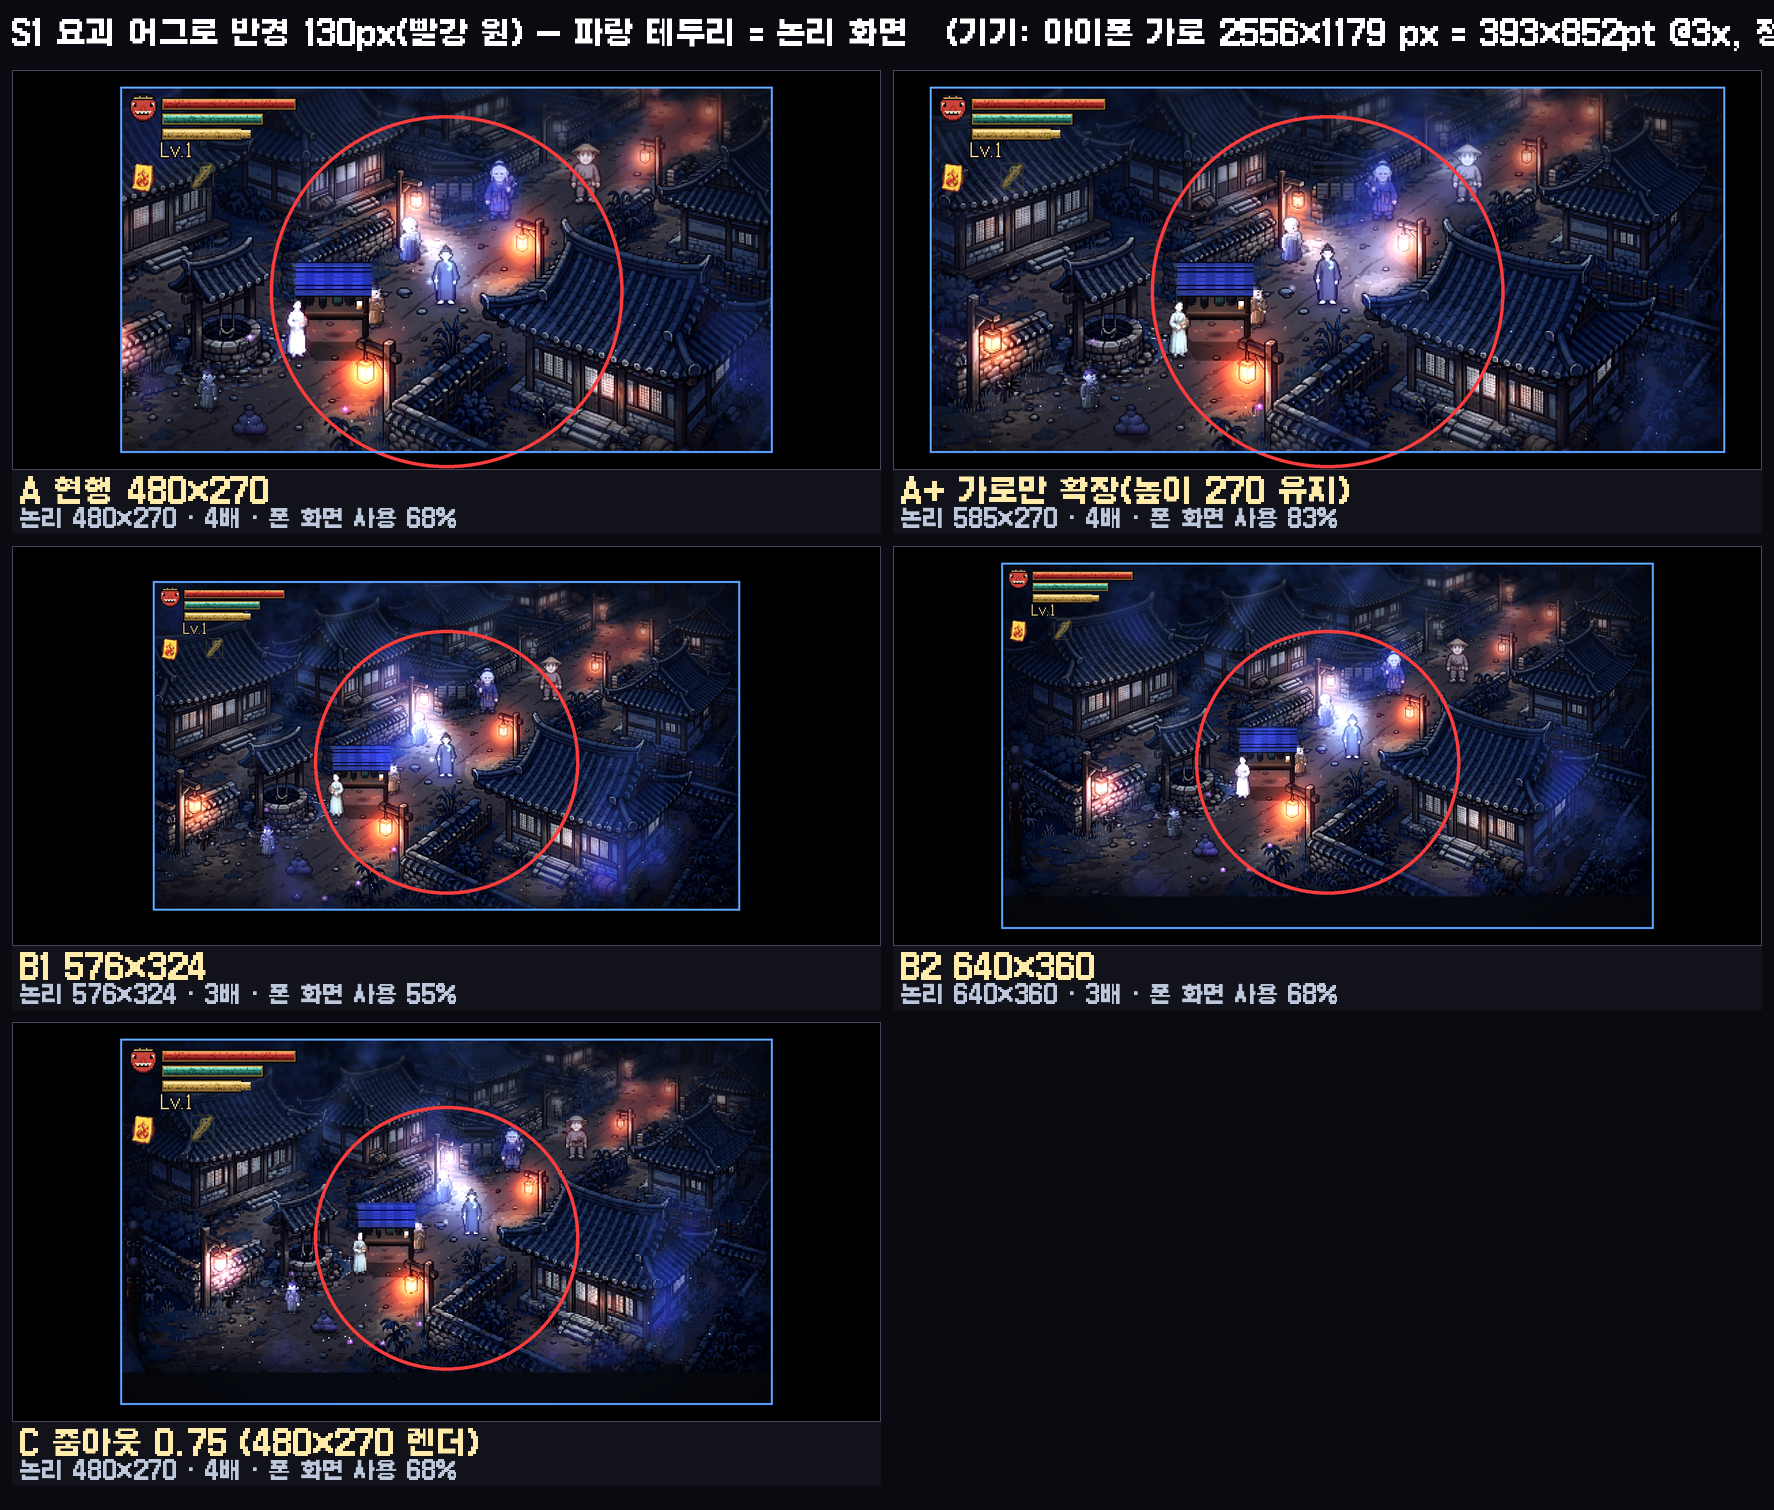
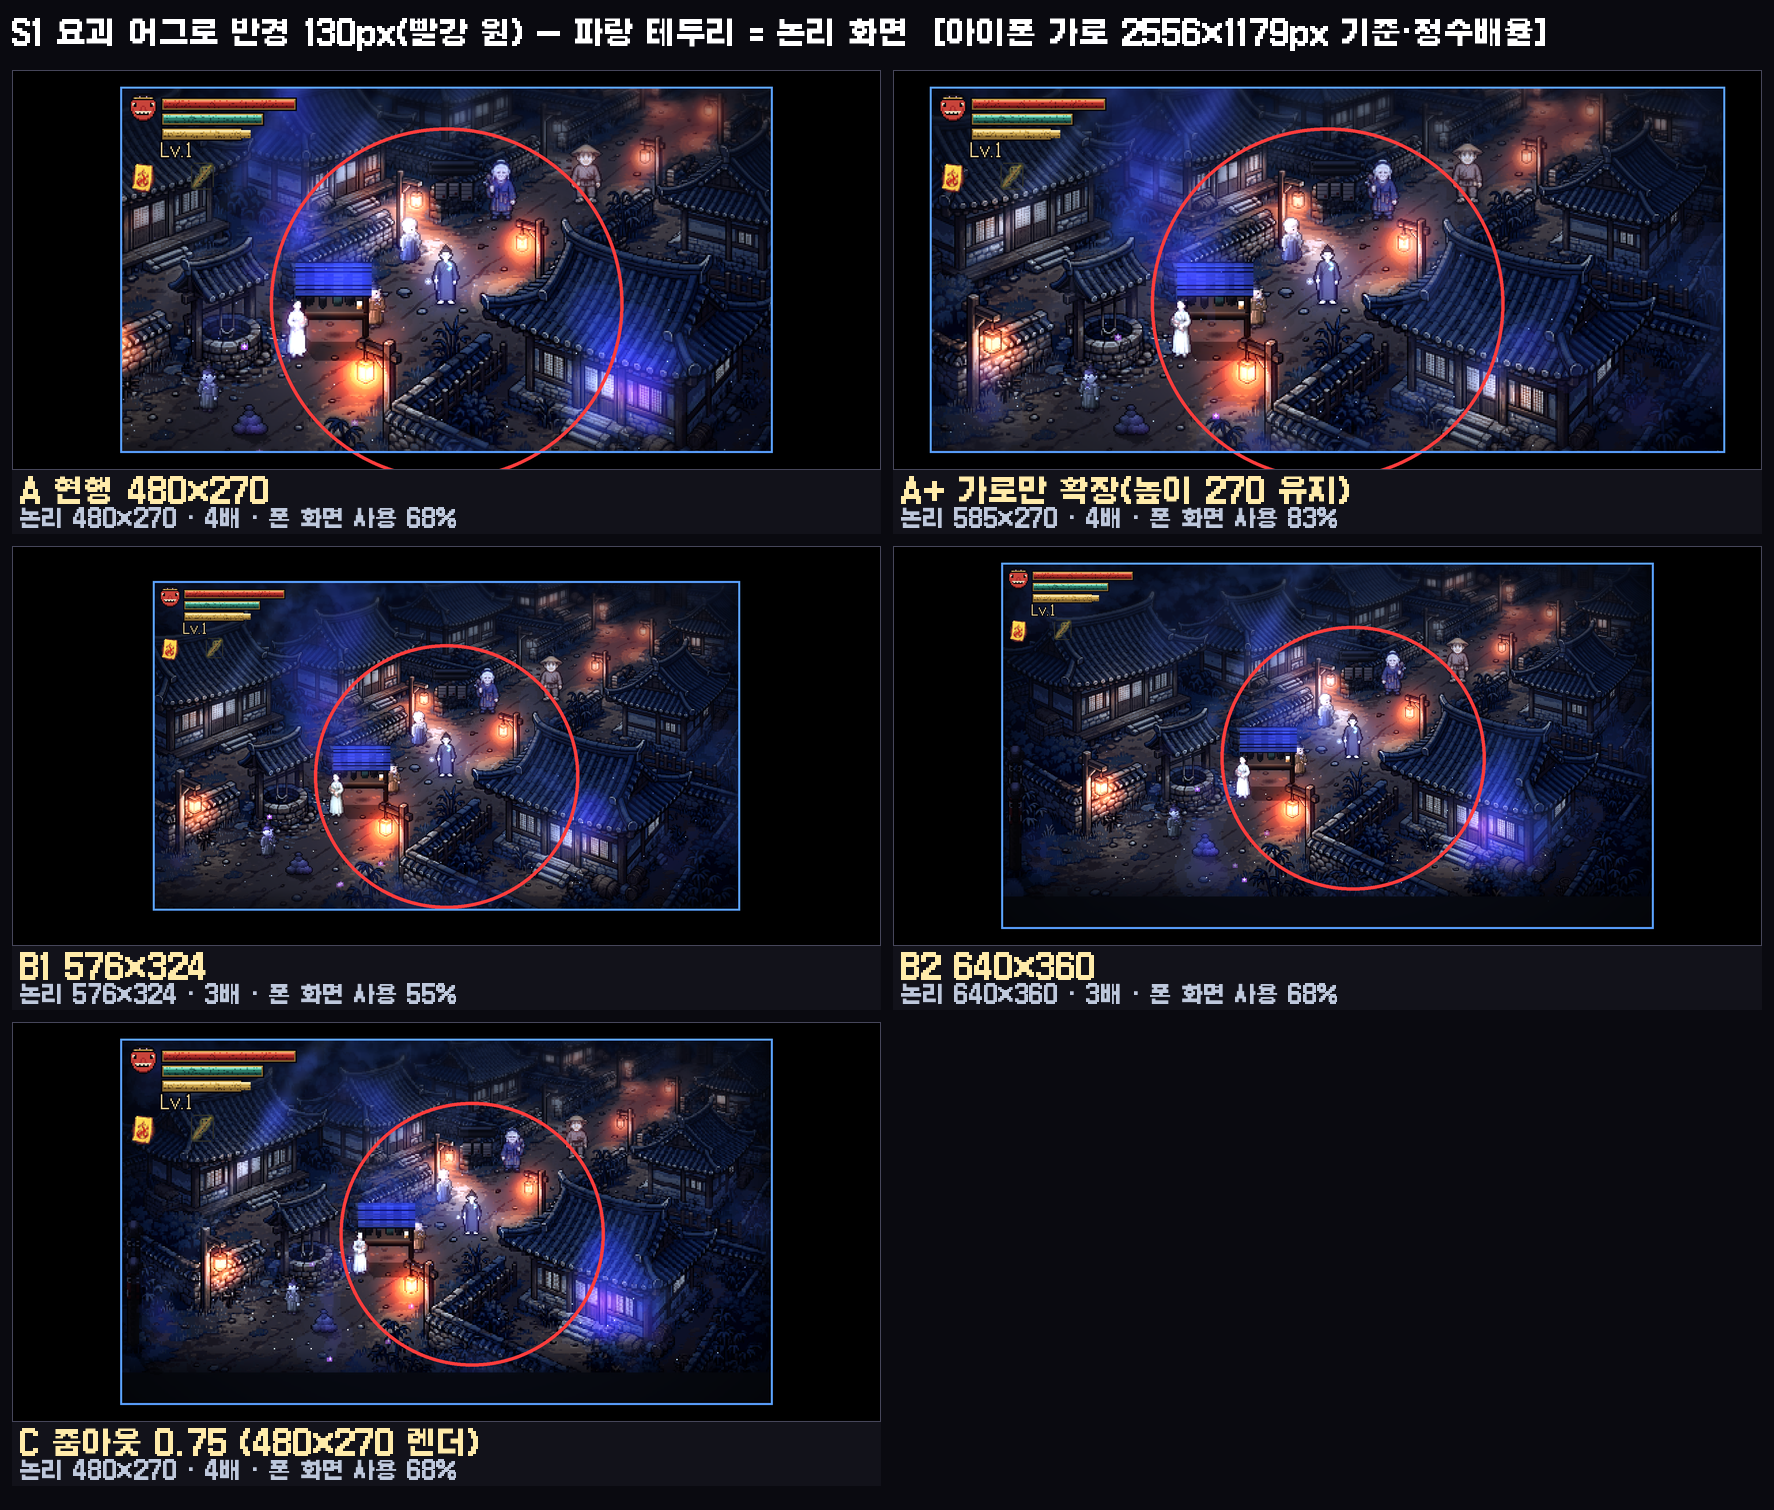
design/view-camera: 비교 이미지 최종(HERO_SCREEN 기준 어그로·확대), GDD Review

diff --git a/production/qa/view-proto/compose.py b/production/qa/view-proto/compose.py
@@ -33,6 +33,12 @@ def panel(key, label, scene, scale_out=0.34, aggro=False):
         up_w, up_h = im.width * s, im.height * s
         ox, oy = (DEV[0] - up_w) // 2, (DEV[1] - up_h) // 2
         cx, cy = ox + up_w // 2, oy + up_h // 2 + 16 * s * z
+        import re
+        lg = os.path.join(RAW, '%s_%s.log' % (scene, key))
+        if os.path.exists(lg):   # 맵 가장자리에서는 카메라가 처용을 중심에 못 둔다 → 실제 화면 좌표(HERO_SCREEN) 사용
+            m = re.search(r'HERO_SCREEN \(([-\d.]+), ([-\d.]+)\)', open(lg, errors='ignore').read())
+            if m:
+                cx, cy = ox + float(m.group(1)) * s, oy + float(m.group(2)) * s
         r = 130 * s * z
         d0 = ImageDraw.Draw(dev)
         d0.ellipse([cx - r, cy - r, cx + r, cy + r], outline=(255, 60, 60), width=10)
@@ -72,8 +78,14 @@ def hero_crop(scene, size=72, zoom=6):
         if not os.path.exists(p) or k == 'bkh':
             continue
         im = Image.open(p).convert('RGB')
-        cx, cy = im.width // 2, im.height // 2 + 16   # 카메라는 발밑에서 16px 위
-        box = (cx - size // 2, cy - size // 2 - 8, cx + size // 2, cy + size // 2 - 8)
+        cx, cy = im.width // 2, im.height // 2 + 16   # 카메라는 발밑에서 16px 위 (맵 가장자리에서는 어긋남 → 로그의 HERO_SCREEN 우선)
+        lg = os.path.join(RAW, '%s_%s.log' % (scene, k))
+        if os.path.exists(lg):
+            import re
+            m = re.search(r'HERO_SCREEN \(([-\d.]+), ([-\d.]+)\)', open(lg, errors='ignore').read())
+            if m:
+                cx, cy = int(float(m.group(1))), int(float(m.group(2)))
+        box = (cx - size // 2, cy - size // 2 - 18, cx + size // 2, cy + size // 2 - 18)
         c = im.crop(box).resize((size * zoom, size * zoom), Image.NEAREST)
         t = Image.new('RGB', (c.width, c.height + 34), (18, 18, 26))
         t.paste(c, (0, 0))
